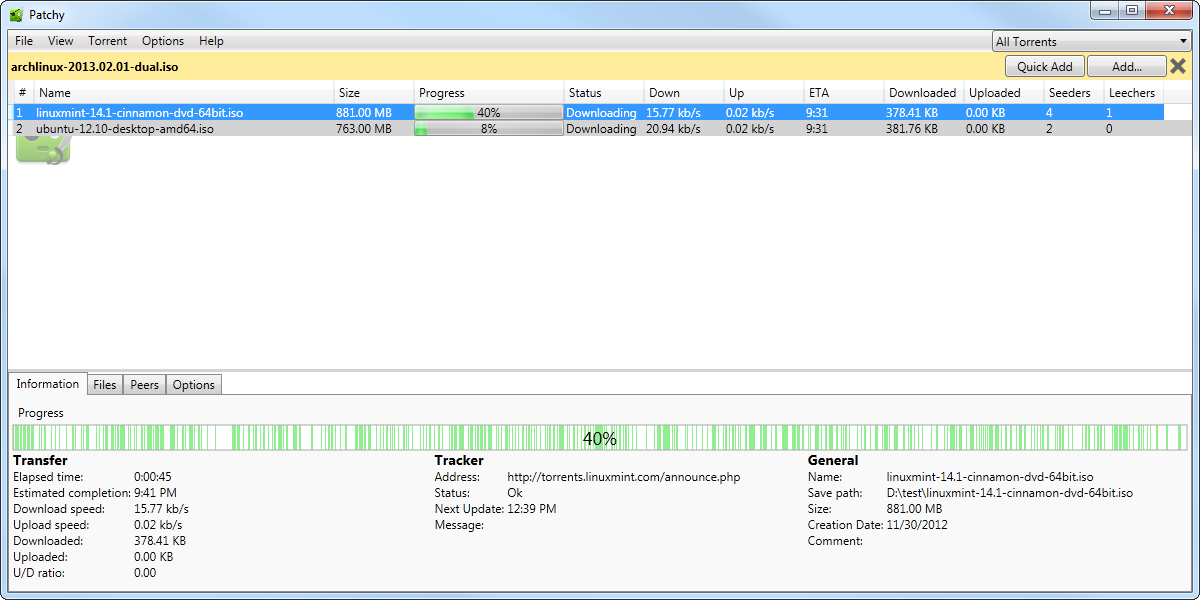
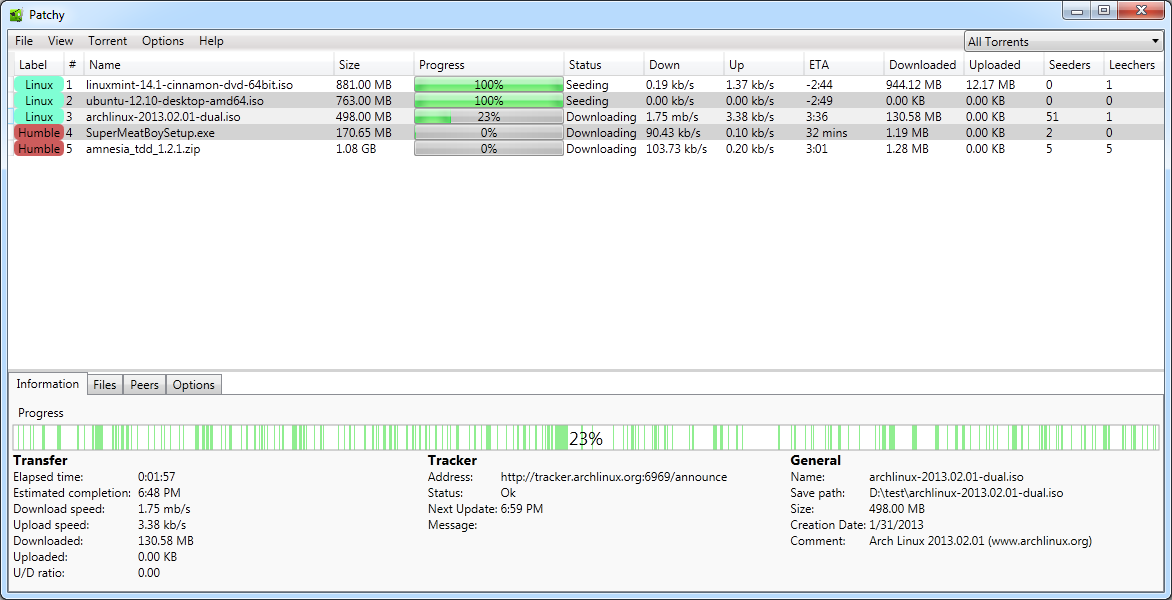
Updated site for beta

diff --git a/index.html b/index.html
@@ -11,12 +11,14 @@
         <div id="content">
             <h1>Patchy for Windows</h1>
             <h2>An open-source bittorrent client with all of the features and none of the ads</h2>
-            <p class="download"><a href="http://bit.ly/patchy-alpha">Download the Alpha!</a></p>
+            <p class="download"><a href="http://bit.ly/patchy-beta">Download the Beta!</a></p>
             <div class="outset">
                 <img src="images/screenshots/1.png" alt="Patchy" class="shown" />
-                <img src="images/screenshots/2.png" alt="Patchy" style="display: none;" />
+                <img src="images/screenshots/5.png" alt="Patchy" style="display: none;" />
+                <img src="images/screenshots/6.png" alt="Patchy" style="display: none;" />
                 <img src="images/screenshots/3.png" alt="Patchy" style="display: none;" />
                 <img src="images/screenshots/4.png" alt="Patchy" style="display: none;" />
+                <img src="images/screenshots/2.png" alt="Patchy" style="display: none;" />
                 <a href="#" class="navleft"></a>
                 <a href="#" class="navright"></a>
             </div>
@@ -28,7 +30,9 @@
                 <ul>
                     <li>Downloads torrents (from torrent files and magnet links)</li>
                     <li>Inline file priority adjustment</li>
-                    <li>Configurable speed settings (global and per-torrent)</li>
+                    <li>Configurable speed and connection settings (global and per-torrent)</li>
+                    <li>Seeding goals (hours seeding, target ratio)</li>
+                    <li>Torrent labels for organization</li>
                     <li>Encrypted torrenting</li>
                     <li>Prioritize torrents for streaming</li>
                     <li>Seeding goals</li>
@@ -40,7 +44,7 @@
                     </li>
                 </ul>
                 <h3 id="help-and-feedback"><a href="#help-and-feedback"></a>Help and Feedback</h3>
-                <p>During alpha time, feedback is at its most valuable. Please let us know if you find any bugs, want any new features, or think something should be done
+                <p>During beta time, feedback is at its most valuable. Please let us know if you find any bugs, want any new features, or think something should be done
                 differently. You may do so by <a href="https://github.com/SirCmpwn/Patchy/issues/new">filing an issue</a> on GitHub. If you need further assistance, or
                 just want to chat with us, head over to our <a href="http://webchat.freenode.net/?channels=patchy">IRC channel</a>
                 (<a href="irc://irc.freenode.net/#patchy">irc://</a>).</p>

diff --git a/css/base.css b/css/base.css
@@ -82,9 +82,9 @@ h2:after {
 }
 
 .outset {
-    width: 1200px;
+    width: 1172px;
     position: relative;
-    left: -200px;
+    left: -186px;
     margin-top: 20px;
     box-shadow: 0 0 5px 2px #000;
     height: 600px;
